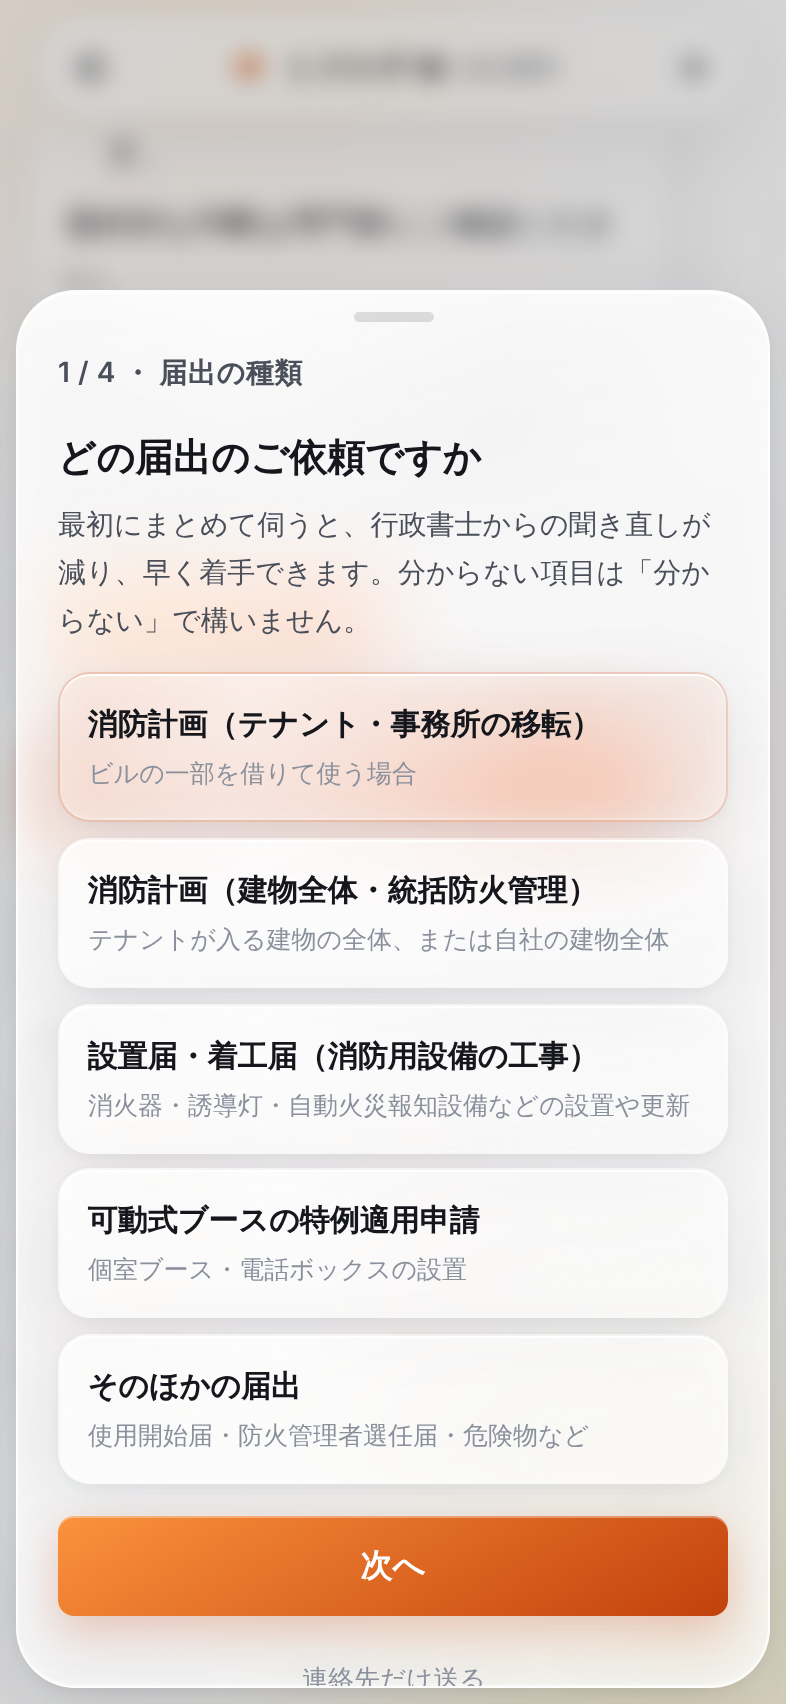
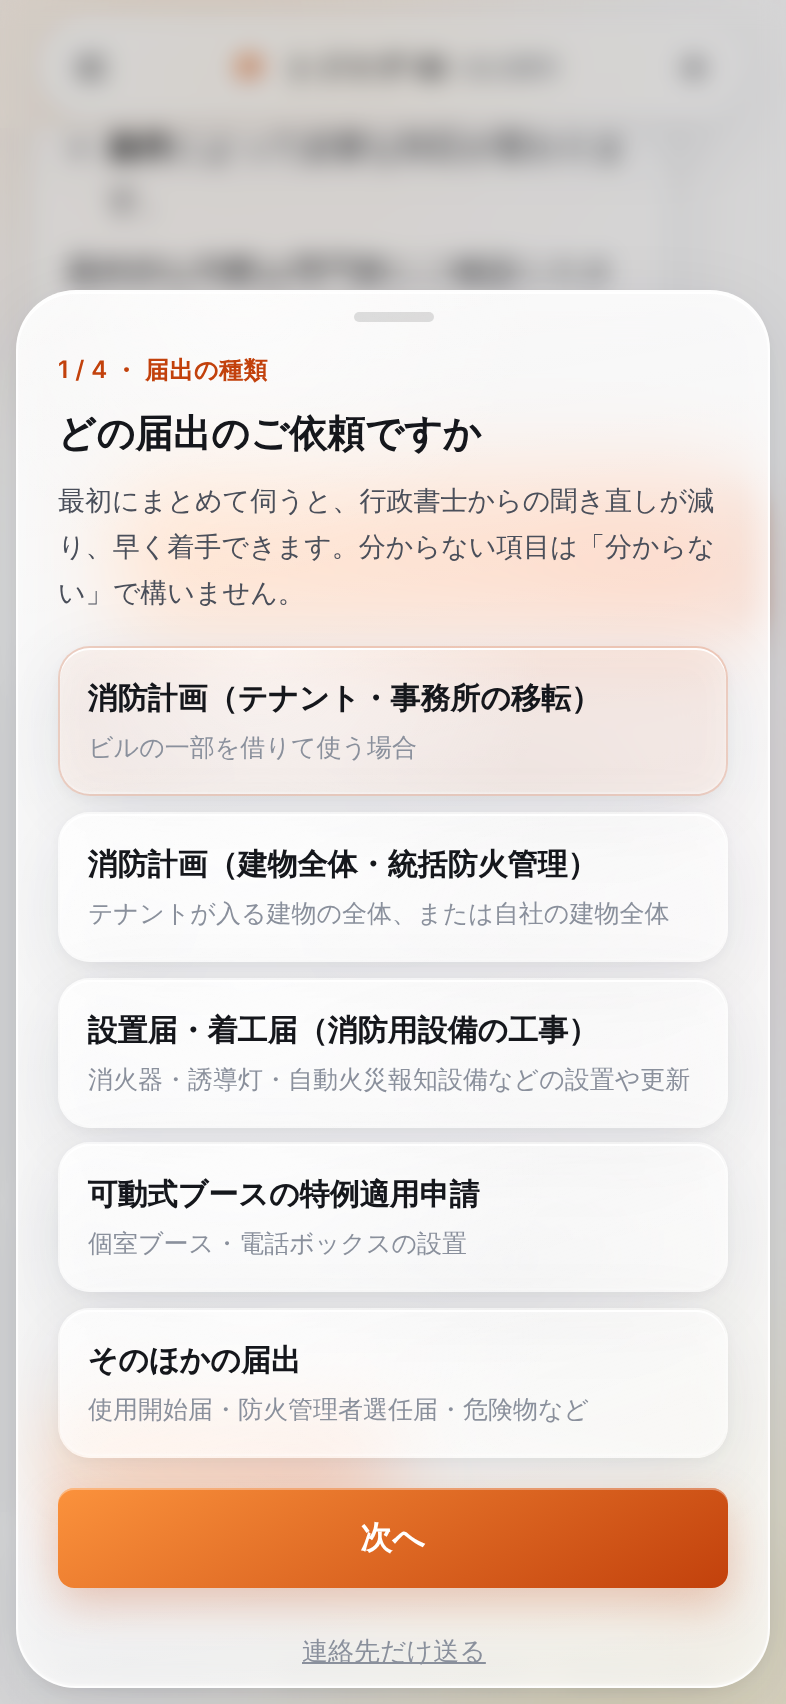
ヒアリングのレビュー指摘を直す
- 送信時にヒアリングが不足していたら、所在地と予定日の確認を出して質問に戻す（空白だけの入力も未入力として扱う）
- サーバー側で、持ち主を Object.hasOwn で判定し、改行を除き、実在しない日付を落とす。手元にある資料には「いつ頃」を残さない
- 依頼文は種類ごとの言い方（消防計画の届出・特例適用の申請など）を使い、宛名と差出人を差し替え欄にする
- 同意文に「ご回答の内容」を含める。連絡先だけ送るときは 4 / 4 を出さない
- 戻ったときは資料の画面から続ける。同じ種類を押し直しても資料の回答を消さない
- 画面の切り替えを View Transitions で動かし、手順の表示とコピーボタンの大きさを直す
- 入力例を都市によらない書き方にし、「その他」を「そのほか」に揃える

Claude-Session: https://claude.ai/code/session_019KxEEVaVyrxBeQG2uDTJLe

Changed region(s): [[0.0611, 0.0622, 0.9771, 0.9953], [0.7328, 0.1244, 0.7634, 0.1866], [0.7634, 0.0622, 0.7939, 0.0933]]

diff --git a/src/hearing/hearing.ts b/src/hearing/hearing.ts
@@ -44,6 +44,8 @@ export interface HearingDef {
   label: string;
   /** 種類を選ぶ画面での補足 */
   sub: string;
+  /** 第三者あての依頼文で使う言い方（例：「消防計画の届出」） */
+  purpose: string;
   sections: readonly Section[];
 }
 
@@ -53,26 +55,26 @@ export const UNKNOWN = "分からない";
 const COMMON_HEAD: Section = {
   title: "建物と時期",
   items: [
-    { id: "address", label: "所在地・建物名", kind: "text", required: true, placeholder: "例：名古屋市中村区名駅4丁目 ○○ビル" },
-    { id: "station", label: "所轄の消防署（分かれば）", kind: "text", placeholder: "例：中村消防署" },
+    { id: "address", label: "所在地・建物名", kind: "text", required: true, placeholder: "例：○○市○○区○○町1-2 ○○ビル" },
+    { id: "station", label: "所轄の消防署（分かれば）", kind: "text", placeholder: "例：○○消防署" },
     { id: "use", label: "用途・業種", kind: "text", placeholder: "例：飲食店、事務所、介護施設" },
     { id: "total_area", label: "建物の延べ面積", kind: "text", placeholder: "例：1,200㎡" },
     { id: "floors", label: "階数", kind: "text", placeholder: "例：地上5階・地下1階" },
     { id: "mixed", label: "建物の使われ方", kind: "choice", options: ["自社だけで使う建物", "テナントが入る建物（複合用途）", UNKNOWN] },
-    { id: "trigger", label: "きっかけ", kind: "choice", options: ["開業・移転", "改装・工事", "消防署の立入検査で指摘", "管理会社・貸主から求められた", "社内の点検・監査", "その他"] },
+    { id: "trigger", label: "きっかけ", kind: "choice", options: ["開業・移転", "改装・工事", "消防署の立入検査で指摘", "管理会社・貸主から求められた", "社内の点検・監査", "そのほか"] },
     { id: "start_date", label: "工事日・使用開始日・オープン日", kind: "date", required: true },
     { id: "started", label: "工事や使用はもう始まっていますか", kind: "choice", options: ["まだ", "もう始まっている"] },
     { id: "fd_deadline", label: "消防署から期限を言われていますか", kind: "choice", options: ["言われていない", "言われている"] },
-    { id: "fd_consulted", label: "消防署に相談しましたか", kind: "choice", options: ["まだ", "相談した（担当者名を補足に）"] },
+    { id: "fd_consulted", label: "消防署に相談しましたか", kind: "choice", options: ["まだ", "相談した"], hint: "相談した場合は、担当者名を次の画面の補足欄に書いてください。" },
   ],
 };
 
 const COMMON_TAIL: Section = {
   title: "届出者と請求先",
   items: [
-    { id: "requester", label: "ご依頼者の立場", kind: "choice", options: ["建物の所有者", "テナント（入居者）", "管理会社", "設計・施工の会社", "設備業者", "その他"] },
+    { id: "requester", label: "ご依頼者の立場", kind: "choice", options: ["建物の所有者", "テナント（入居者）", "管理会社", "設計・施工の会社", "設備業者", "そのほか"] },
     { id: "filer", label: "届出者になる方（法人名・代表者）", kind: "text", placeholder: "例：株式会社○○ 代表取締役 ○○", hint: "届出書に名前が載る方です。ご依頼者と違うことがあります。" },
-    { id: "billing", label: "請求先", kind: "choice", options: ["届出者と同じ", "届出者と違う（補足に会社名）"] },
+    { id: "billing", label: "請求先", kind: "choice", options: ["届出者と同じ", "届出者と違う"], hint: "違う場合は、請求先の会社名を次の画面の補足欄に書いてください。" },
   ],
 };
 
@@ -81,6 +83,7 @@ const DEFS: readonly HearingDef[] = [
     type: "tenant_plan",
     label: "消防計画（テナント・事務所の移転）",
     sub: "ビルの一部を借りて使う場合",
+    purpose: "消防計画の届出",
     sections: [
       {
         title: "使う区画",
@@ -110,6 +113,7 @@ const DEFS: readonly HearingDef[] = [
     type: "building_plan",
     label: "消防計画（建物全体・統括防火管理）",
     sub: "テナントが入る建物の全体、または自社の建物全体",
+    purpose: "消防計画の届出",
     sections: [
       {
         title: "体制",
@@ -138,6 +142,7 @@ const DEFS: readonly HearingDef[] = [
     type: "equipment_work",
     label: "設置届・着工届（消防用設備の工事）",
     sub: "消火器・誘導灯・自動火災報知設備などの設置や更新",
+    purpose: "消防用設備の工事の届出",
     sections: [
       {
         title: "工事",
@@ -170,14 +175,15 @@ const DEFS: readonly HearingDef[] = [
     type: "booth",
     label: "可動式ブースの特例適用申請",
     sub: "個室ブース・電話ボックスの設置",
+    purpose: "特例適用の申請",
     sections: [
       {
         title: "設置先と使い方",
         items: [
           { id: "bo_count", label: "設置する台数と設置予定日", kind: "text", placeholder: "例：3台、12月10日" },
           { id: "bo_floor", label: "設置する階と、その階の在籍人数", kind: "text", placeholder: "例：5階、60人" },
-          { id: "bo_equip", label: "その階の消防設備", kind: "choice", options: ["スプリンクラーがある", "スプリンクラーはない", UNKNOWN], hint: "自動火災報知設備・非常放送・排煙の有無も補足に書いてください。" },
-          { id: "bo_usage", label: "ブースの使い方", kind: "choice", options: ["会議・電話", "仮眠など寝る使い方もある", "その他"] },
+          { id: "bo_equip", label: "その階の消防設備", kind: "choice", options: ["スプリンクラーがある", "スプリンクラーはない", UNKNOWN], hint: "自動火災報知設備・非常放送・排煙の有無は、次の画面の補足欄に書いてください。" },
+          { id: "bo_usage", label: "ブースの使い方", kind: "choice", options: ["会議・電話", "仮眠など寝る使い方もある", "そのほか"] },
           { id: "bo_fire", label: "ブースの中で火気を使いますか", kind: "choice", options: ["使わない", "使う", UNKNOWN], hint: "電気ケトルや電子レンジなど、電気で加熱する機器も「使う」に入ります。" },
           { id: "bo_fixed", label: "床や壁に固定しますか", kind: "choice", options: ["固定しない", "固定する", UNKNOWN] },
         ],
@@ -195,6 +201,7 @@ const DEFS: readonly HearingDef[] = [
     type: "other",
     label: "そのほかの届出",
     sub: "使用開始届・防火管理者選任届・危険物など",
+    purpose: "消防署への届出",
     sections: [
       {
         title: "内容",
@@ -256,10 +263,18 @@ export function guessType(text: string): HearingType {
 
 const MAX_VALUE = 300;
 
+/** 実在する日付（YYYY-MM-DD）だけを通す */
+export function isDate(s: string): boolean {
+  if (!/^\d{4}-\d{2}-\d{2}$/.test(s)) return false;
+  const d = new Date(`${s}T00:00:00Z`);
+  return !Number.isNaN(d.getTime()) && d.toISOString().slice(0, 10) === s;
+}
+
 /** 画面から来た回答を、定義にある項目と選択肢だけに絞る */
 export function sanitize(input: unknown): HearingAnswers | null {
   if (!input || typeof input !== "object") return null;
   const raw = input as { type?: unknown; values?: unknown; docs?: unknown };
+  const clean = (v: string, max: number) => v.replace(/[\r\n\t]+/g, " ").trim().slice(0, max);
   if (typeof raw.type !== "string" || !HEARING_TYPES.includes(raw.type as HearingType)) return null;
   const type = raw.type as HearingType;
   const values: Record<string, string> = {};
@@ -269,17 +284,17 @@ export function sanitize(input: unknown): HearingAnswers | null {
   for (const item of itemsOf(type)) {
     if (item.kind === "doc") {
       const d = dsrc[item.id] as { holder?: unknown; when?: unknown } | undefined;
-      if (!d || typeof d.holder !== "string" || !(d.holder in HOLDER_LABEL)) continue;
-      const when = typeof d.when === "string" ? d.when.trim().slice(0, 60) : "";
+      if (!d || typeof d.holder !== "string" || !Object.hasOwn(HOLDER_LABEL, d.holder)) continue;
+      const when = typeof d.when === "string" && THIRD_PARTY.includes(d.holder as Holder) ? clean(d.when, 60) : "";
       docs[item.id] = { holder: d.holder as Holder, ...(when ? { when } : {}) };
       continue;
     }
     const v = src[item.id];
     if (typeof v !== "string") continue;
-    const s = v.trim().slice(0, MAX_VALUE);
+    const s = clean(v, MAX_VALUE);
     if (!s) continue;
     if (item.kind === "choice" && !item.options?.includes(s)) continue;
-    if (item.kind === "date" && !/^\d{4}-\d{2}-\d{2}$/.test(s)) continue;
+    if (item.kind === "date" && !isDate(s)) continue;
     values[item.id] = s;
   }
   return { type, values, docs };
@@ -354,20 +369,22 @@ export function summarize(a: HearingAnswers, now: number): HearingSummary {
 
 /** 顧客以外が持っている資料について、その相手に送る依頼文の下書き */
 export function requestDraft(holder: Holder, docs: { label: string }[], a: HearingAnswers): string {
-  const building = a.values.address ? `${a.values.address}` : "当該の建物";
-  const purpose = hearingDef(a.type).label.replace(/（.*）$/, "");
-  const deadline = a.values.start_date ? `${a.values.start_date.replace(/-/g, "/")}の予定に間に合わせるため、` : "";
-  const to = holder === "dept" ? "ご担当者さま" : `${HOLDER_LABEL[holder]}ご担当者さま`;
+  const building = a.values.address || "（建物名）";
+  const purpose = a.type === "other" && a.values.ot_filing ? a.values.ot_filing : hearingDef(a.type).purpose;
+  const to = holder === "dept" ? "（部署名）ご担当者さま" : `（${HOLDER_LABEL[holder]}の名称）ご担当者さま`;
+  const when = a.values.start_date ? `${a.values.start_date.replace(/-/g, "/")}に予定があるため、` : "";
   return [
     to,
     "",
-    `${building}について、消防署へ${purpose}の届出を準備しています。`,
-    `届出書の作成のため、次の資料をお送りいただけないでしょうか。`,
+    `${building}について、消防署への${purpose}を準備しています。`,
+    "準備のため、次の資料をお送りいただけないでしょうか。",
     "",
     ...docs.map((d) => `・${d.label}`),
     "",
-    `${deadline}お手数ですが、お持ちの範囲で構いませんので、ご都合のよい時期をお知らせください。`,
+    `${when}お持ちの範囲でお送りいただけますと助かります。お送りいただける時期の目安もお知らせください。`,
     "どうぞよろしくお願いいたします。",
+    "",
+    "（お名前・ご連絡先）",
   ].join("\n");
 }
 

diff --git a/src/client/components/Hearing.tsx b/src/client/components/Hearing.tsx
@@ -30,7 +30,8 @@ interface Props {
  * 顧客以外が持っている資料は、その相手に送る依頼文の下書きをその場で出す。
  */
 export function Hearing({ escalationId, value, onChange, onDone }: Props) {
-  const [step, setStep] = useState<Step>("type");
+  // 連絡先の画面から戻ったときは、最後の資料の画面から続ける
+  const [step, setStep] = useState<Step>(value ? "docs" : "type");
   const [loading, setLoading] = useState(value === null);
   const a = value ?? { type: "other" as HearingType, values: {}, docs: {} };
 
@@ -49,23 +50,29 @@ export function Hearing({ escalationId, value, onChange, onDone }: Props) {
   const sections = sectionsOf(a.type);
   const factSections = sections.map((s) => ({ ...s, items: s.items.filter((i) => i.kind !== "doc") })).filter((s) => s.items.length);
   const docItems = sections.flatMap((s) => s.items.filter((i) => i.kind === "doc"));
-  const missing = factSections.flatMap((s) => s.items).filter((i) => i.required && !a.values[i.id]);
+  const missing = factSections.flatMap((s) => s.items).filter((i) => i.required && !a.values[i.id]?.trim());
   const summary = useMemo(() => summarize(a, Date.now()), [a]);
 
   const setValue = (id: string, v: string) => onChange({ ...a, values: { ...a.values, [id]: v } });
-  const setHolder = (id: string, holder: Holder) => onChange({ ...a, docs: { ...a.docs, [id]: { ...a.docs[id], holder } } });
+  const setHolder = (id: string, holder: Holder) =>
+    onChange({ ...a, docs: { ...a.docs, [id]: THIRD_PARTY.includes(holder) ? { ...a.docs[id], holder } : { holder } } });
   const setWhen = (id: string, when: string) => onChange({ ...a, docs: { ...a.docs, [id]: { ...a.docs[id], when } } });
   const go = (s: Step) => {
-    setStep(s);
-    document.querySelector(".sheet")?.scrollTo({ top: 0 });
+    const run = () => {
+      setStep(s);
+      document.querySelector(".sheet")?.scrollTo({ top: 0 });
+    };
+    const doc = document as Document & { startViewTransition?: (cb: () => void) => void };
+    if (doc.startViewTransition && !matchMedia("(prefers-reduced-motion: reduce)").matches) doc.startViewTransition(run);
+    else run();
   };
 
   const stepNo = { type: 1, items: 2, docs: 3 }[step];
 
   return (
-    <div class="hearing stagger" data-testid="hearing" data-step={step}>
+    <div class="hearing stagger" data-testid="hearing" data-step={step} key={step}>
       <p class="hearing-step">
-        {stepNo} / 4 ・ {step === "type" ? "届出の種類" : step === "items" ? "建物と時期" : "資料"}
+        {stepNo} / 4 ・ {step === "type" ? "届出の種類" : step === "items" ? "建物と届出の内容" : "資料"}
       </p>
 
       {step === "type" && (
@@ -84,7 +91,7 @@ export function Hearing({ escalationId, value, onChange, onDone }: Props) {
                   class={`hearing-type glass${a.type === d.type ? " on" : ""}`}
                   data-testid="hearing-type"
                   data-type={d.type}
-                  onClick={() => onChange({ ...a, type: d.type, docs: {} })}
+                  onClick={() => d.type !== a.type && onChange({ ...a, type: d.type, docs: {} })}
                 >
                   <strong>{d.label}</strong>
                   <span>{d.sub}</span>
@@ -103,6 +110,7 @@ export function Hearing({ escalationId, value, onChange, onDone }: Props) {
 
       {step === "items" && (
         <>
+          <h2>建物と届出の内容を教えてください</h2>
           {factSections.map((s) => (
             <fieldset class="hearing-section">
               <legend>{s.title}</legend>

diff --git a/src/client/App.tsx b/src/client/App.tsx
@@ -244,6 +244,11 @@ export function App({ initialMe }: { initialMe: Me }) {
       flash("ご依頼を受け付けました。担当からご連絡します。");
     } catch (err) {
       const code = err instanceof ApiError ? err.code : "";
+      if (code === "hearing_incomplete" || code === "invalid_hearing") {
+        setHearingDone(false);
+        flash("所在地と予定日をご確認ください。");
+        return;
+      }
       flash(
         code === "invalid_email"
           ? "メールアドレスの形式をご確認ください。"
@@ -474,7 +479,7 @@ export function App({ initialMe }: { initialMe: Me }) {
             />
           ) : (
           <form class="stagger handoff-form" onSubmit={submitHandoff}>
-            {handoff.lane === "gyosei" && <p class="hearing-step">4 / 4 ・ ご連絡先</p>}
+            {handoff.lane === "gyosei" && hearing && <p class="hearing-step">4 / 4 ・ ご連絡先</p>}
             <h2>{HANDOFF[handoff.lane].action}</h2>
             <p>ご連絡先をお知らせください。担当からご連絡し、内容と費用をご案内します。</p>
             <label>
@@ -528,7 +533,7 @@ export function App({ initialMe }: { initialMe: Me }) {
                 onChange={(e) => setHandoffForm({ ...handoffForm, consent: (e.target as HTMLInputElement).checked })}
               />
               <span>
-                この相談のやり取りを、MeHer株式会社を通じて提携の
+                この相談のやり取り{handoff.lane === "gyosei" && hearing ? "とご回答の内容" : ""}を、MeHer株式会社を通じて提携の
                 {handoff.lane === "gyosei" ? "行政書士" : "消防設備士・点検業者"}
                 に共有することに同意します。ご依頼の契約と費用は、提携先とお客様の間で決めます。
               </span>
@@ -544,7 +549,7 @@ export function App({ initialMe }: { initialMe: Me }) {
             <p class="terms">メールアドレスか電話番号のどちらかをご入力ください。</p>
             {handoff.lane === "gyosei" && (
               <button type="button" class="hearing-skip" onClick={() => setHearingDone(false)}>
-                ヒアリングに戻る
+                前の質問に戻る
               </button>
             )}
           </form>

diff --git a/src/client/styles.css b/src/client/styles.css
@@ -301,8 +301,8 @@ textarea { font: inherit; }
 
 /* 行政書士に依頼する前のヒアリング（届出の種類 → 建物と時期 → 資料の持ち主） */
 .hearing h2 { font-size: 19px; margin: 2px 0 6px; }
-.hearing-step { margin: 0 0 6px; font-size: 12px; font-weight: 600; color: var(--accent); letter-spacing: .02em; }
-.hearing-lead { margin: 0 0 14px; font-size: 13.5px; line-height: 1.7; color: var(--ink-2); }
+.sheet .hearing-step { margin: 0 0 6px; font-size: 12px; font-weight: 600; color: var(--accent); letter-spacing: .02em; }
+.sheet .hearing-lead { margin: 0 0 14px; font-size: 13.5px; line-height: 1.7; color: var(--ink-2); }
 .hearing-types { display: flex; flex-direction: column; gap: 8px; margin-bottom: 16px; }
 .hearing-type {
   display: flex; flex-direction: column; gap: 2px; text-align: left; padding: 12px 14px; border-radius: 16px;
@@ -325,6 +325,7 @@ textarea { font: inherit; }
 }
 .hearing-field input:focus, .hearing-when:focus { border-color: color-mix(in srgb, var(--accent) 50%, transparent); }
 .hearing-when { margin-top: 8px; font-size: 16px; }
+.hearing-field input[type="date"] { -webkit-appearance: none; appearance: none; display: block; min-height: 44px; }
 .hearing-chips { display: flex; flex-wrap: wrap; gap: 6px; }
 .hearing-chip {
   min-height: 44px; padding: 8px 14px; border-radius: 999px; font-size: 14px; color: var(--ink-2);
@@ -338,7 +339,7 @@ textarea { font: inherit; }
 .hearing-draft { margin: 4px 0 14px; padding: 12px 14px; border-radius: 16px; animation: msgIn .55s var(--spring) both; }
 .hearing-draft-head { display: flex; align-items: center; justify-content: space-between; gap: 8px; margin-bottom: 6px; }
 .hearing-draft-head strong { font-size: 13.5px; }
-.hearing-copy { min-height: 36px; padding: 6px 12px; border-radius: 999px; font-size: 13px; font-weight: 600; color: var(--accent); border: 1px solid var(--accent-line); }
+.hearing-copy { min-height: 44px; padding: 6px 12px; border-radius: 999px; font-size: 13px; font-weight: 600; color: var(--accent); border: 1px solid var(--accent-line); }
 .hearing-draft pre { margin: 0; white-space: pre-wrap; word-break: break-word; font: inherit; font-size: 13px; line-height: 1.7; color: var(--ink-2); }
 .hearing-nav { display: flex; gap: 8px; }
 .hearing-nav .btn-ghost { flex: 0 0 34%; }
